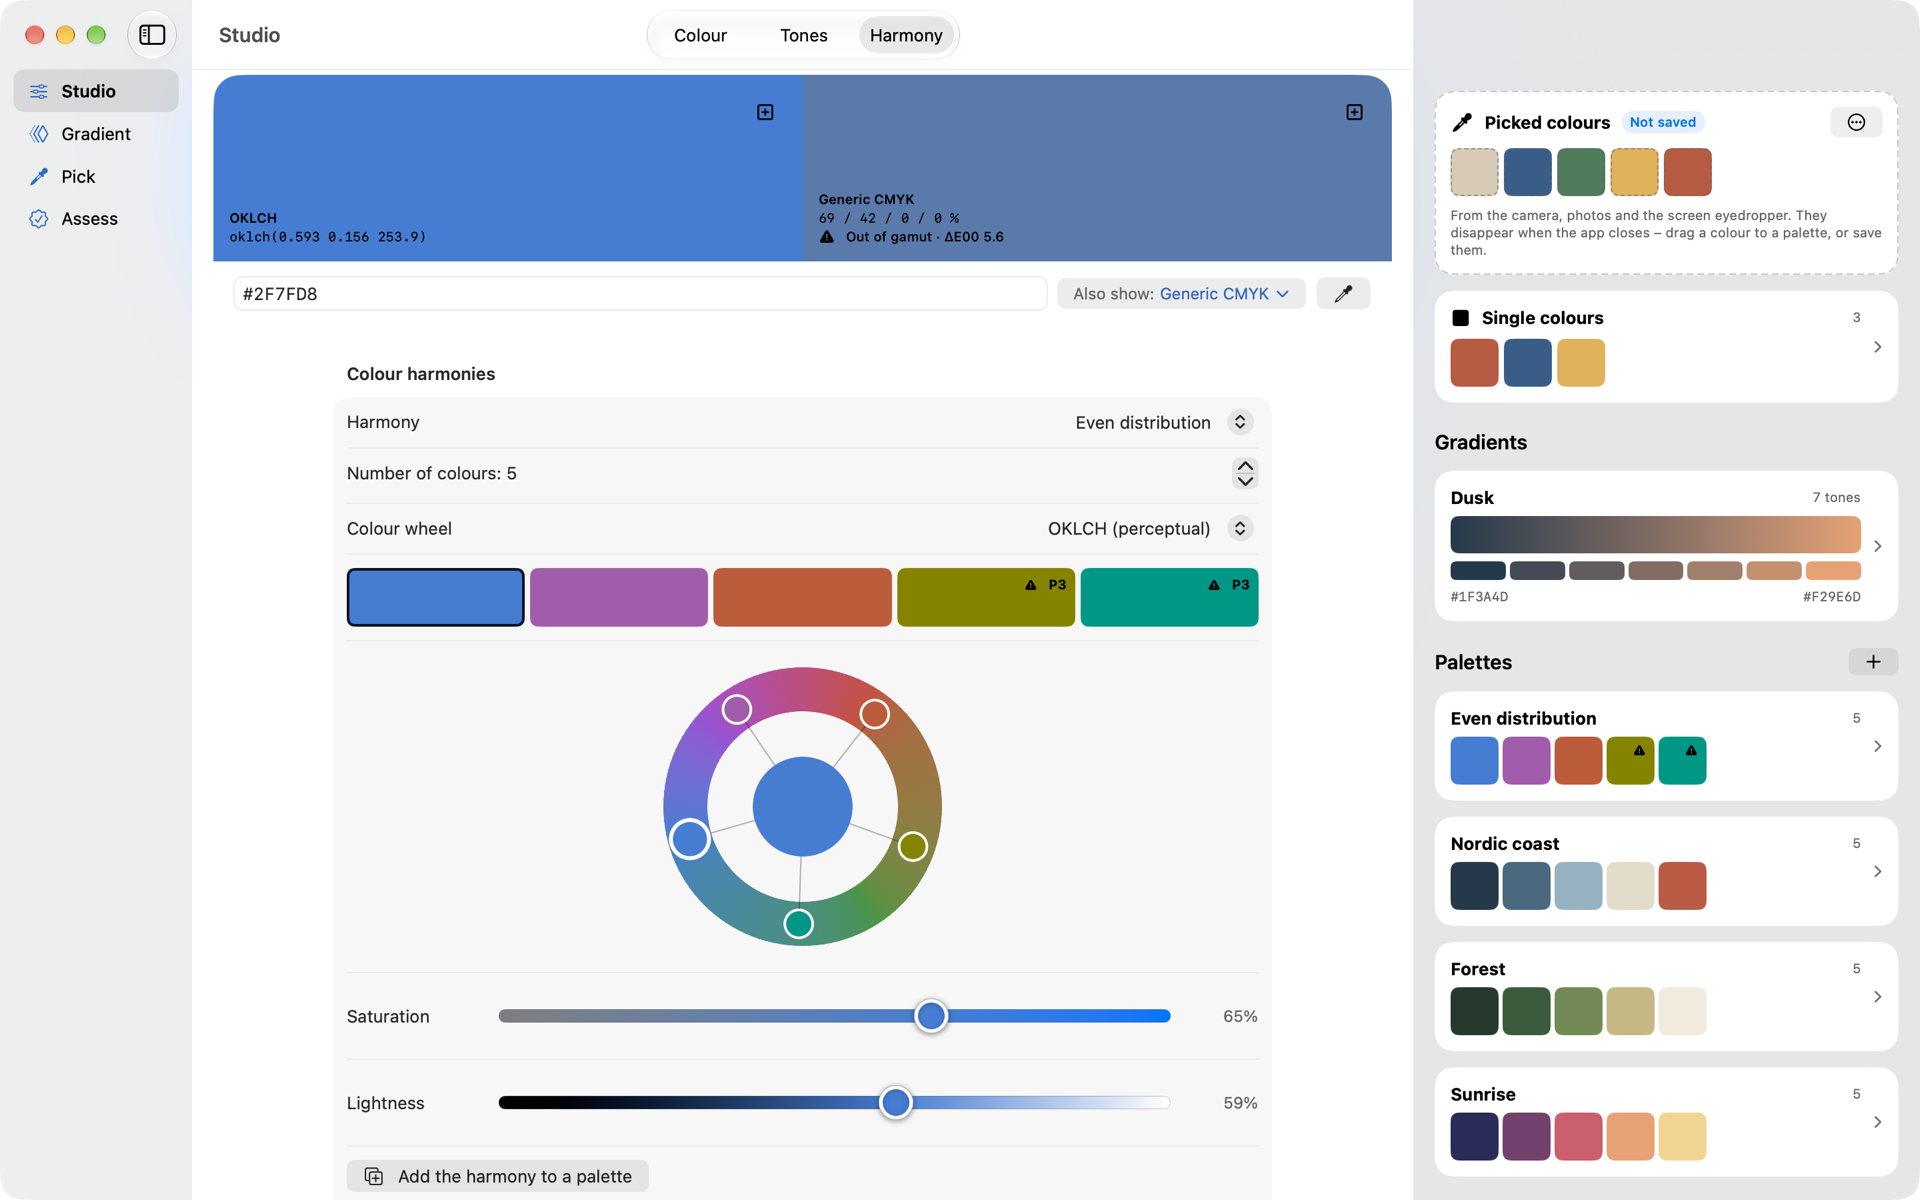
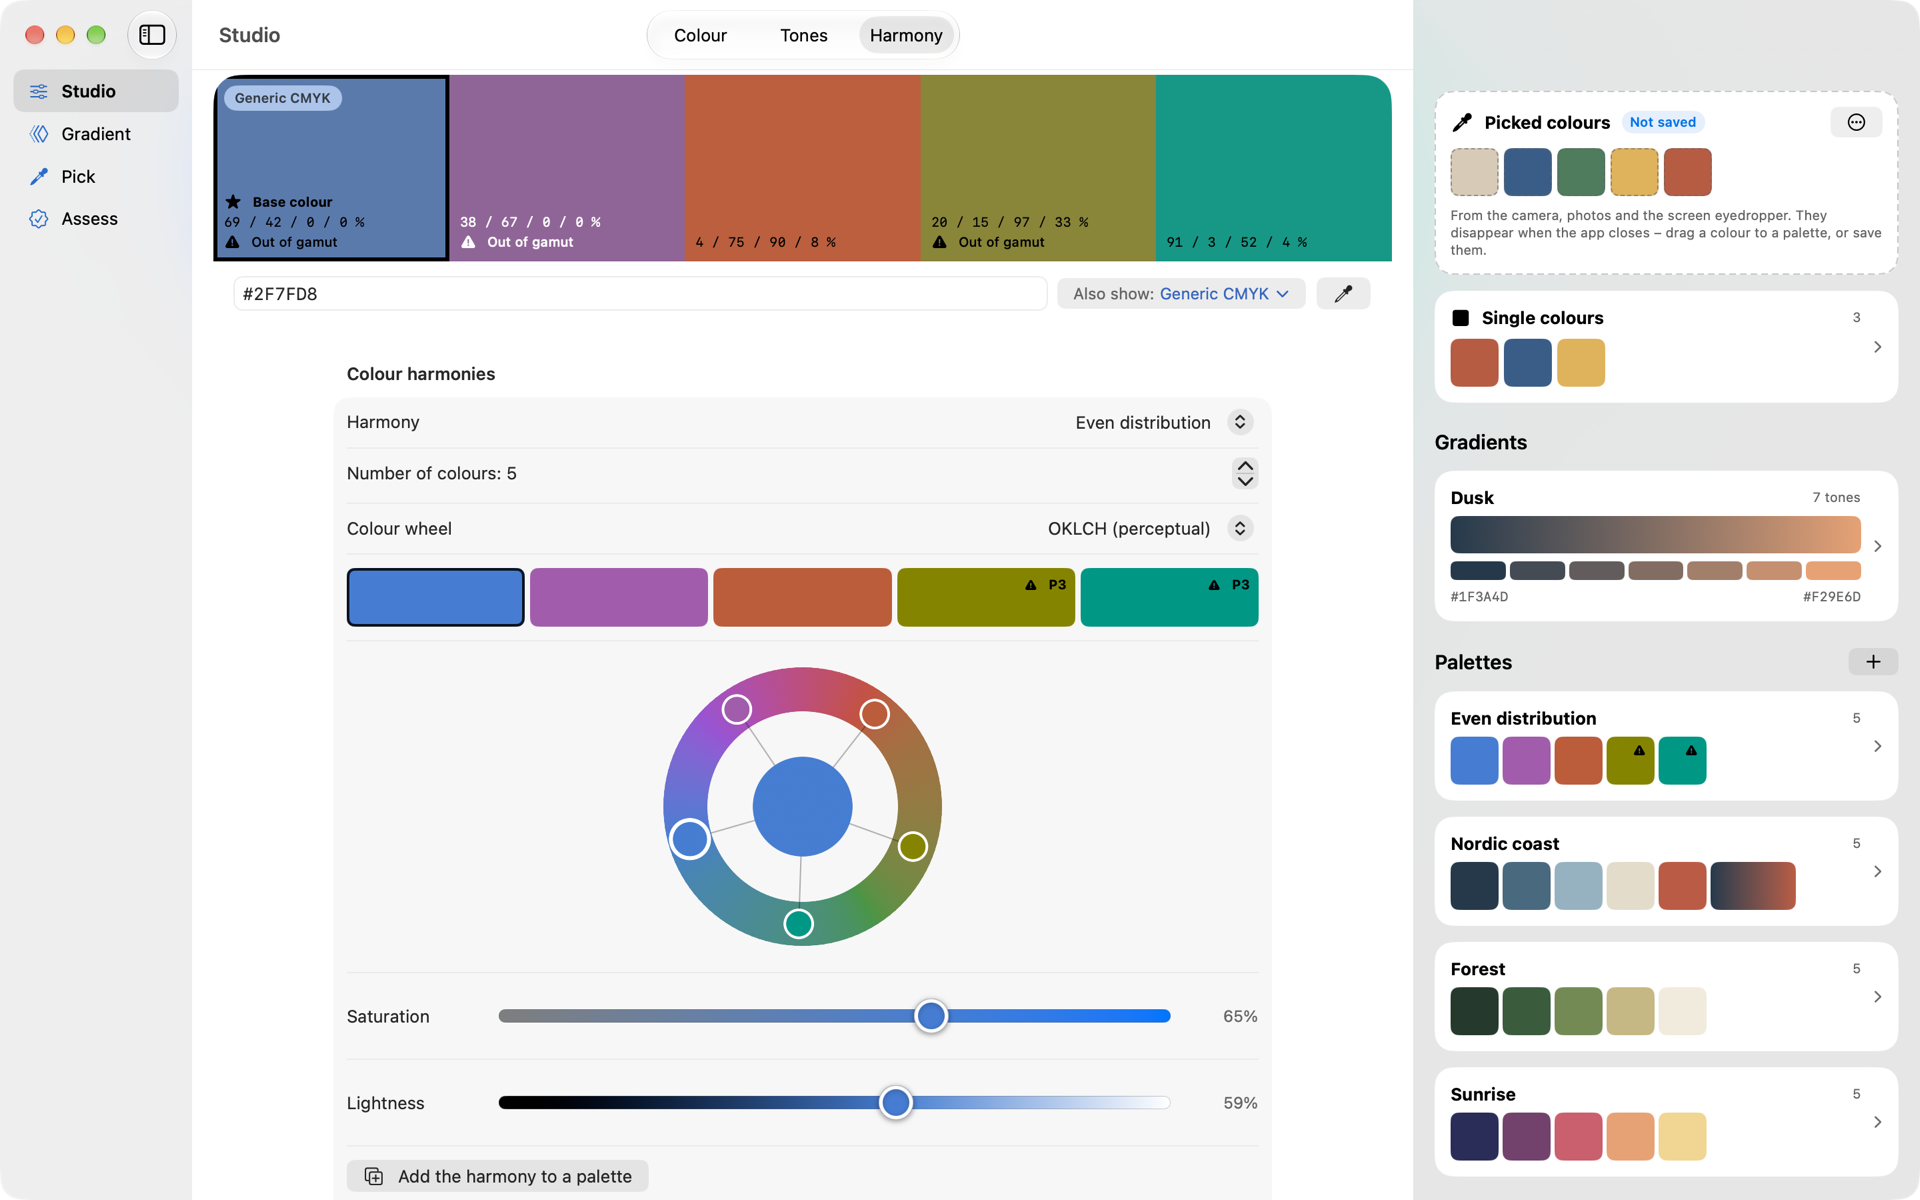
Nye Harmoni-skjermbilder (alle plattformer, nb/en) med harmonien i fargeflaten; smale flater viser bare symboler
- HarmoniFlate: under 110 pt bredde vises stjerne og varselsymbol uten ordene (iPhone med fem farger)
- Dokumentasjon/1.1/Skjermbilder/*/2-harmoni.png og web 1.1 (iPhone og Mac) oppdatert

Changed region(s): [[0.0938, 0.0617, 0.75, 0.2158], [0.875, 0.7092, 0.9375, 0.7708]]

diff --git a/Kolorist/Visninger/HarmoniFlate.swift b/Kolorist/Visninger/HarmoniFlate.swift
@@ -58,10 +58,12 @@ struct HarmoniFlate: View {
             let flatebredde = stablet ? geo.size.width : geo.size.width / CGFloat(antall)
             let flatehøyde = stablet ? geo.size.height / CGFloat(antall) : geo.size.height
             let visTekst = flatebredde >= 58 && flatehøyde >= 44
+            // Smale flater (iPhone med mange farger): bare stjerne og varselsymbol, ikke ordene ved siden av.
+            let kompakt = flatebredde < 110
             let oppsett = stablet ? AnyLayout(VStackLayout(spacing: 0)) : AnyLayout(HStackLayout(spacing: 0))
             oppsett {
                 ForEach(Array(motparter.enumerated()), id: \.offset) { i, m in
-                    flate(m, original: farger[i], erGrunn: i == grunnIndeks, visTekst: visTekst)
+                    flate(m, original: farger[i], erGrunn: i == grunnIndeks, visTekst: visTekst, kompakt: kompakt)
                 }
             }
         }
@@ -80,7 +82,7 @@ struct HarmoniFlate: View {
         .accessibilityLabel(String(localized: "Harmonien i \(romnavn)"))
     }
 
-    private func flate(_ m: Motpart, original: Farge, erGrunn: Bool, visTekst: Bool) -> some View {
+    private func flate(_ m: Motpart, original: Farge, erGrunn: Bool, visTekst: Bool, kompakt: Bool) -> some View {
         let tekstfarge = m.farge.farge.lesbarTekstfarge.swiftUI
         return FargeRute(farge: m.farge.farge, visTekst: false, hjørne: 0, visMerke: false,
                          lagre: { _ in lagre(m.farge) }, leggIPalett: { _ in leggIPalett(m.farge) }, palettFarge: m.farge,
@@ -93,7 +95,7 @@ struct HarmoniFlate: View {
             .overlay(alignment: .bottomLeading) {
                 VStack(alignment: .leading, spacing: 2) {
                     if erGrunn {
-                        if visTekst {
+                        if visTekst && !kompakt {
                             Label("Grunnfarge", systemImage: "star.fill").font(.caption2.weight(.bold))
                         } else {
                             Image(systemName: "star.fill").font(.caption2.weight(.bold))
@@ -102,7 +104,11 @@ struct HarmoniFlate: View {
                     if visTekst {
                         Text(m.tekst).font(.caption2.monospaced()).lineLimit(3).minimumScaleFactor(0.6)
                         if let merknad = m.merknad {
-                            Label(merknad, systemImage: "exclamationmark.triangle.fill").font(.caption2).lineLimit(1).minimumScaleFactor(0.7)
+                            if kompakt {
+                                Image(systemName: "exclamationmark.triangle.fill").font(.caption2)
+                            } else {
+                                Label(merknad, systemImage: "exclamationmark.triangle.fill").font(.caption2).lineLimit(1).minimumScaleFactor(0.7)
+                            }
                         }
                     }
                 }

diff --git a/web/1.1/en/index.html b/web/1.1/en/index.html
@@ -237,7 +237,7 @@
         </li>
         <li>
           <figure class="skjermbilde">
-            <img src="../assets/en/skjermbilde-harmoni.png" alt="Colour harmony with swatches above the colour wheel" width="1284" height="2778" loading="lazy">
+            <img src="../assets/en/skjermbilde-harmoni.png?v=2" alt="Colour harmony with swatches above the colour wheel" width="1284" height="2778" loading="lazy">
             <figcaption>Harmony</figcaption>
           </figure>
         </li>
@@ -271,7 +271,7 @@
         </li>
         <li>
           <figure class="skjermbilde mac">
-            <img src="../assets/en/mac/skjermbilde-harmoni.png" alt="Harmony on Mac: five colours evenly distributed on the colour wheel" width="1920" height="1200" loading="lazy">
+            <img src="../assets/en/mac/skjermbilde-harmoni.png?v=2" alt="Harmony on Mac: five colours evenly distributed on the colour wheel" width="1920" height="1200" loading="lazy">
             <figcaption>Harmony</figcaption>
           </figure>
         </li>

diff --git a/web/1.1/index.html b/web/1.1/index.html
@@ -236,7 +236,7 @@
         </li>
         <li>
           <figure class="skjermbilde">
-            <img src="assets/skjermbilde-harmoni.png" alt="Fargeharmoni med fargeprøver over fargesirkelen" width="1284" height="2778" loading="lazy">
+            <img src="assets/skjermbilde-harmoni.png?v=2" alt="Fargeharmoni med fargeprøver over fargesirkelen" width="1284" height="2778" loading="lazy">
             <figcaption>Harmoni</figcaption>
           </figure>
         </li>
@@ -270,7 +270,7 @@
         </li>
         <li>
           <figure class="skjermbilde mac">
-            <img src="assets/mac/skjermbilde-harmoni.png" alt="Harmoni på Mac: fem farger jevnt fordelt på fargesirkelen" width="1920" height="1200" loading="lazy">
+            <img src="assets/mac/skjermbilde-harmoni.png?v=2" alt="Harmoni på Mac: fem farger jevnt fordelt på fargesirkelen" width="1920" height="1200" loading="lazy">
             <figcaption>Harmoni</figcaption>
           </figure>
         </li>
